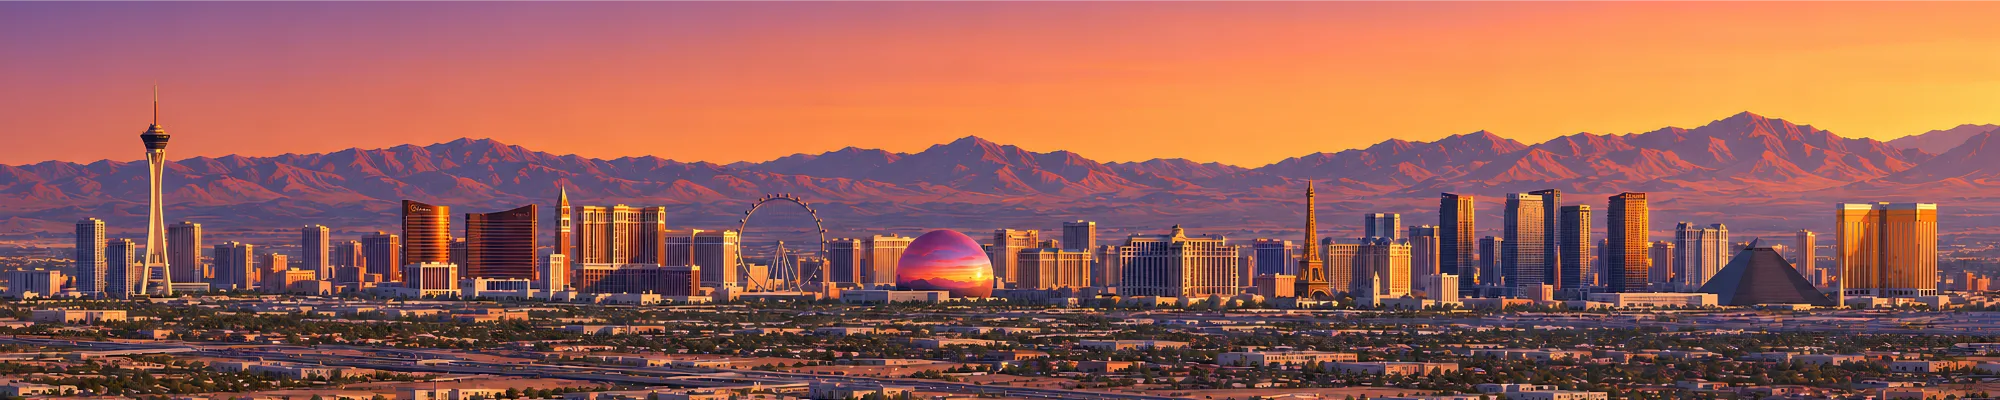
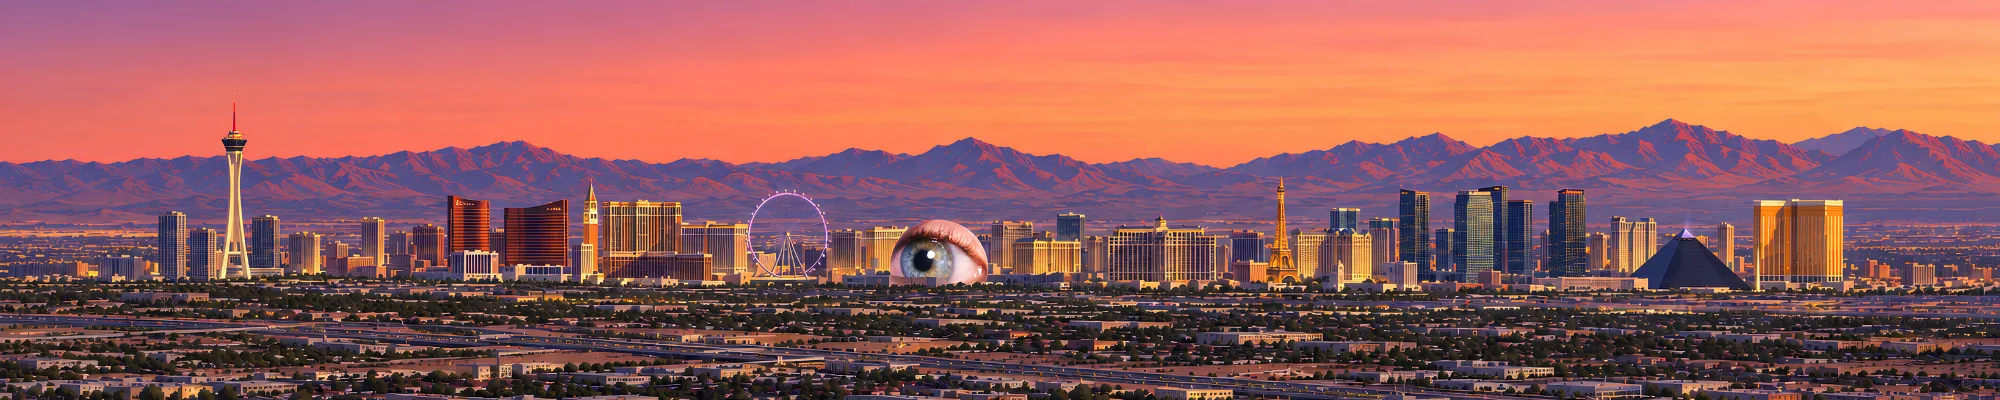
Rebuild Las Vegas on the third pack, and give the Sphere a face that looks around
The Owner redrew Las Vegas. Ten frames now (Cloudy and RainNight joined the
eight), one drawing on all ten (row-edge Pearson: lag 0 or 1px, r
0.967-0.987), so no shift and no override. Every coordinate re-measured.

The headline is the Sphere. The Owner deliberately left it blank in emoji
yellow on the Night frame and asked for a face whose eyes look around the
valley, so there is a new `emoji` kind: brows, two lavender eyes with dark
pupils, and a smile, all sized as percentages OF THE ORB'S DISC. A guard
asserts the emoji and the orb share x, y and d, because a face is drawn on a
landmark and if the two ever drift apart the features slide off the sphere
and land on the skyline, which nothing else would report.

Two things the frame dictated. The face lives in the TOP 67% of the disc:
the disc runs to card y 79 and the rooftops cut it at 71, and my first pass
(brows at 37%, mouth at 66%) looked right in the source and rendered with
the eyes clipped and no mouth at all. And it is NIGHT ONLY, because Night is
the only frame whose Sphere is that flat yellow: Golden Hour and Cloudy
Night paint it orange, Rain Night purple, the daylight frames blue. A face
on those reads as a decal on the wrong screen.

The pupils dart and then HOLD, on a 17-second loop, with a blink between the
darts. A pupil that slides continuously reads as a machine.

Everything else, re-measured on the new art:
- The High Roller is FITTED, not eyeballed: its topmost rim pixel is
[…]

diff --git a/src/lib/mastheadCityScenes.js b/src/lib/mastheadCityScenes.js
@@ -693,95 +693,129 @@ export const CITY_MOTION = {
     sceneShift: { cloudynight: 1.86, snownight: 1.27 },
   },
   lasvegas: {
-    // MASTHEAD-LASVEGAS-2 (2026-09-05): the second Las Vegas pack replaced
-    // the first, so EVERY coordinate here was re-measured (scratchpad
-    // nymeasure.mjs, lvbbox.mjs). One viewpoint on all eight frames: the
-    // valley from the south-east, the Strat at far left, the High Roller and
-    // the Sphere left of centre, Paris's tower right of it, the Luxor pyramid
-    // at right, mountains behind, the suburbs' arterial roads in front.
-    // measured before MASTHEAD-FULL-FRAME-1 and converted to the full frame with it: the Strat's tip is at
-    // source row 68. CloudyNight is the same drawing (landmarks and crowns
-    // within 3px), so it needs no shift and no override.
+    // MASTHEAD-LASVEGAS-3 (2026-09-07): the THIRD Las Vegas pack. Ten frames
+    // now (Cloudy and RainNight joined the eight), one drawing on all ten
+    // (row-edge Pearson: lag 0 or 1px, r 0.967-0.987), and every coordinate
+    // re-measured on these frames.
+    //
+    // The valley from the south-east: the Strat at x 11.7 (mast to card y 23,
+    // its red pod band at 28-31), the High Roller at x 39.35, the Sphere at
+    // x 46.9, Paris's tower at x 64, the Luxor pyramid at x 84.2 and the sky
+    // beam beside it at x 87.9, mountains behind, two arterial roads across
+    // the suburb in front.
     //
     // Night: the Strip's facades and crowns, then the suburb's lamps.
     lights: [
-      [65.5, 61.36], [65.3, 52.37], [80.5, 46.36], [70.8, 53.64], [65.6, 69.92],
-      [58.7, 54.15], [20.6, 48.14], [92.7, 58.14], [94.6, 68.14], [28.2, 47.12],
-      [10.6, 69.66], [95.9, 51.1], [24.2, 56.1], [26.6, 60.59], [21.3, 69.41],
-      [22.2, 60.59], [93.0, 49.41], [92.4, 67.88], [15.4, 64.66], [31.4, 48.14],
-      [26.5, 66.61], [59.4, 70.17], [2.3, 61.86], [97.5, 66.61], [23.6, 65.85],
-      [34.7, 64.41], [14.0, 69.92], [30.0, 63.39], [67.7, 60.17], [26.6, 55.34],
-      [26.2, 50.34], [17.0, 69.66], [52.5, 60.17], [30.1, 69.41], [84.1, 52.37],
+      [64.5, 66.3], [47.4, 70.3], [64.0, 46.3], [55.1, 71.5], [45.3, 67.8],
+      [44.8, 62.5], [47.4, 55.3], [9.3, 67.0], [64.0, 61.0], [91.0, 71.8],
+      [47.2, 61.8], [64.1, 53.3], [55.6, 57.5], [19.6, 71.3], [6.6, 61.5],
+      [92.0, 64.3], [20.5, 58.3], [69.0, 70.0], [52.3, 58.0], [32.7, 50.5],
+      [2.6, 71.0], [28.5, 69.5], [58.1, 55.3], [29.5, 51.2], [67.7, 58.0],
+      [79.3, 61.8], [94.8, 69.3], [9.3, 61.8], [13.2, 69.8], [92.0, 55.5],
+      [50.1, 55.3], [18.3, 64.3], [99.5, 67.0], [0.4, 69.5], [85.8, 63.2],
+      [12.3, 61.3], [69.9, 60.3], [17.6, 55.8], [23.6, 68.8], [4.8, 71.3],
       // The suburb's lamps, off the two road rails.
-      [21.8, 87.63], [33.0, 91.36], [69.3, 78.64], [55.8, 72.63], [41.6, 90.17],
-      [91.0, 91.61], [95.1, 78.39], [50.3, 87.63], [91.0, 73.64],
+      [50.8, 84.0], [99.2, 83.0], [21.0, 80.3], [10.0, 74.8], [37.2, 76.0],
+      [13.3, 78.3], [23.9, 83.8], [92.7, 72.8], [63.0, 75.8], [96.0, 87.5],
+      [84.5, 78.0], [74.3, 97.8], [69.2, 76.5], [47.6, 75.3], [37.0, 93.5],
+      [75.9, 83.3],
     ],
-    // The Strat's tip (rgb 232,100,58 at card y 11) and its pod's red band
-    // (244,34,61), the crown at x 28 (250,67,2), Paris's tip, the red crown
-    // at 81.2 (248,19,14) and the three tower crowns beside it.
+    // Aviation red. The Strat's pod band is the pair at x 11.7 - the "sky
+    // above" test FAILS on those two, correctly, because the mast continues
+    // above them, so they are taken from the column profile instead. The rest
+    // are strict-red maxima with open sky overhead: Paris's tip at x 64, the
+    // two crowns on the block at x 31-34, and the towers at 66 and 78.
     beacons: [
-      [7.7, 16.95], [7.7, 21.86], [28.0, 48.14], [65.5, 43.39], [81.2, 45.59],
-      [77.6, 44.15], [75.9, 45.34], [72.1, 44.92],
+      [11.7, 28.5], [11.7, 31.3], [64.0, 46.5], [33.7, 50.7], [31.3, 50.7],
+      [78.1, 47.8], [66.3, 56.8],
     ],
     beaconTone: 'red',
-    // Neon: the saturated magenta and cyan maxima of the Strip's signage
-    // (the third element picks the cyan glow; magenta is the default). The
-    // wheel's rim and the Sphere's skin are left to their own kinds.
+    // Neon: the saturated magenta and cyan maxima of the Strip's signage. The
+    // wheel's rim, the Sphere's skin and the beam are left to their own kinds.
     neon: [
-      [11.9, 58.14], [41.1, 56.86], [40.9, 63.9], [37.5, 66.1], [48.6, 71.1],
-      [64.0, 57.12], [62.9, 65.59], [73.6, 46.36], [78.1, 48.9], [80.3, 57.88],
-      [1.2, 64.66],
-      [86.9, 68.39, 'cyan'], [87.5, 61.86, 'cyan'], [72.2, 46.36, 'cyan'],
-      [91.5, 72.12, 'cyan'], [36.9, 57.37, 'cyan'], [73.6, 60.17, 'cyan'],
-      [54.2, 52.88, 'cyan'],
+      [9.6, 57.5], [63.1, 68.8], [78.6, 71.5], [5.0, 68.5], [40.6, 70.8],
+      [22.0, 62.7], [26.7, 68.5], [81.5, 72.0], [23.9, 53.3], [33.8, 72.8],
+      [39.4, 62.7], [61.6, 58.3], [38.5, 68.3],
+      [26.9, 57.3, 'cyan'], [73.9, 47.5, 'cyan'], [24.5, 58.5, 'cyan'],
+      [76.4, 68.0, 'cyan'], [84.0, 59.0, 'cyan'], [72.0, 57.3, 'cyan'],
+      [52.8, 53.8, 'cyan'], [67.0, 57.3, 'cyan'], [8.5, 68.5, 'cyan'],
     ],
-    // The High Roller: a ring 97 source px across (bounding box of its lit
-    // rim, card y 44.3-72.9), centred at x 39.0. Diameter as a share of the
-    // card WIDTH, since the ring is square in pixels and the card is not.
-    wheel: { x: 39.0, y: 57.29, d: 4.85 },
-    // The Sphere: 123 px across, top at card y 54.3, its lower half behind
-    // the Strip (the skyline cuts it at y 73.8, 54% of the way down).
-    orb: { x: 47.2, y: 68.98, d: 6.15, cut: 54 },
-    // The Luxor shaft, standing on the pyramid's apex: the brightest column
-    // at x 88 peaks white (254,255,253) at card y 57-58 and the frame already
-    // paints a faint beam above it.
-    beam: { x: 87.95, y: 56.36, height: 39.83, width: 2.4 },
-    // Two arterial roads across the suburb in front, traced light by light
-    // (+-1.3% band): both run level across the whole frame.
+    // The High Roller, fitted rather than eyeballed: the rim's topmost pixel is
+    // (39.35, 47.25) and its half-chord is 1.80 at y 54.75, which solves to a
+    // radius of 1.83% of the card WIDTH. Diameter is a share of the width
+    // because the ring is square in pixels and the card is not; the fit
+    // predicts the measured span within 0.2% at every row above the skyline.
+    wheel: { x: 39.35, y: 56.4, d: 3.66 },
+    // The Sphere: the largest solid-yellow component on the Night frame spans
+    // x 44.50-49.30 with its top at y 55.0, so it is 4.80% across, 24.0% tall,
+    // centred at y 67.0, and the skyline cuts it 67% of the way down.
+    orb: { x: 46.9, y: 67.0, d: 4.8, cut: 67 },
+    // MASTHEAD-SPHERE-FACE-1 (Owner): the Sphere is left blank in emoji yellow
+    // on the Night frame precisely so a face can be drawn on it, and the eyes
+    // look around the valley. Same disc as the orb above - it has to be, or
+    // the face slides off the sphere - and gated to Night alone, which is the
+    // only frame where the artwork's Sphere is that flat yellow (Golden Hour
+    // is orange, Cloudy Night orange, Rain Night purple, and the daylight
+    // frames paint it blue). The face sits in the TOP 67% of the disc because
+    // that is all the skyline leaves visible.
+    emoji: { x: 46.9, y: 67.0, d: 4.8 },
+    // The Luxor sky beam, standing on the pyramid's apex where it belongs
+    // (Owner). The frame paints a PURE WHITE LAMP there - x 84.25, y 57.5-59,
+    // rgb(255,255,255) against a sky at lum 33 - and no shaft above it: the
+    // sky column means over the apex are 36-42, flat. So the artwork gives the
+    // beam its source and leaves the shaft to us, which is exactly what this
+    // effect is for.
+    //
+    // I first put it at x 87.9, on the one column between x 80 and 96 that IS
+    // elevated (mean 56 against 46 either side). That column is real, but it
+    // rises from Mandalay Bay's roofline, not from the Luxor, and following it
+    // meant drawing the city's most recognisable landmark in the wrong place.
+    // Brightest is not the same as right.
+    beam: { x: 84.25, y: 57.5, height: 38.0, width: 2.4 },
+    // Two arterial roads across the suburb, traced light by light. The suburb
+    // is a carpet of lamps rather than a lit roadway, so the trace scatters:
+    // these are the lights within 1.4% of each fitted level, and none of the
+    // kept ones is more than 1.33% off the line the cars ride.
     bridge: [
       {
         lights: [
-          [3.5, 76.36], [7.0, 76.1], [10.0, 76.1], [13.0, 75.17], [16.5, 75.34],
-          [20.0, 75.85], [25.5, 76.61], [29.0, 75.85], [35.0, 74.66], [39.0, 74.66],
-          [43.5, 74.92], [46.5, 74.66], [53.5, 74.92], [56.5, 75.34], [60.5, 74.66],
-          [64.5, 75.34], [69.0, 74.92], [73.0, 74.66], [77.5, 75.34], [81.5, 74.41],
-          [86.0, 74.66], [89.5, 74.92], [92.0, 75.17], [97.0, 74.41],
+          [3.0, 77.0], [10.0, 74.8], [13.5, 74.8], [18.0, 76.8], [30.0, 75.0],
+          [32.0, 75.5], [34.0, 75.3], [41.5, 76.0], [43.0, 77.0], [45.5, 75.8],
+          [47.5, 75.3], [51.0, 76.5], [60.5, 77.0], [63.0, 75.8], [65.0, 76.3],
+          [69.0, 76.8], [73.5, 75.3], [75.5, 75.0], [77.5, 75.5], [80.0, 77.0],
+          [81.5, 75.8], [85.0, 74.5], [88.5, 76.5], [95.0, 75.3], [98.0, 76.5],
         ],
-        deck: { x: 1, y: 75.17, w: 98, rise: 0.0 },
+        deck: { x: 1, y: 75.83, w: 98, rise: 0.0 },
+        police: true,
       },
       {
         lights: [
-          [2.5, 85.17], [8.0, 83.14], [12.0, 83.39], [16.5, 84.41], [21.0, 83.39],
-          [26.0, 83.14], [31.5, 83.64], [37.0, 84.66], [40.5, 84.41], [44.0, 84.41],
-          [50.0, 84.41], [53.5, 83.64], [58.0, 83.39], [61.5, 84.66], [65.5, 83.39],
-          [70.0, 83.9], [73.5, 83.14], [79.5, 85.34], [84.5, 83.9], [88.5, 83.9],
-          [93.5, 84.92], [97.0, 83.9],
+          [3.5, 83.5], [6.5, 83.0], [11.0, 83.0], [17.5, 84.8], [20.0, 83.0],
+          [21.5, 83.0], [24.0, 83.8], [27.5, 84.0], [32.0, 83.3], [33.5, 84.5],
+          [35.0, 84.5], [36.5, 84.8], [40.5, 82.8], [45.0, 84.3], [51.0, 83.8],
+          [53.0, 85.0], [56.0, 83.8], [59.5, 84.3], [64.0, 84.8], [66.0, 83.5],
+          [73.5, 84.5], [76.0, 83.3], [79.5, 82.8], [82.5, 82.8], [85.5, 83.8],
+          [89.0, 84.3], [90.5, 83.8], [92.0, 83.8], [94.5, 83.3], [97.5, 83.5],
         ],
-        deck: { x: 1, y: 84.15, w: 98, rise: 0.0 },
+        deck: { x: 1, y: 83.87, w: 98, rise: 0.0 },
       },
     ],
-    // The ridge tops out at card y 30%; the Strat reaches 11% at x 7.7, so
-    // the crossings keep to the east of it.
-    aircraft: { y: 21.19, from: 98, to: 44, flight: 40 },
-    birds: { y: 26.27, from: 98, to: 44, flight: 34, count: 6 },
-    helicopter: { y: 27.97, from: 44, to: 98, flight: 46 },
+    // The ridge tops out at card y 30.8 and the Strat's mast reaches 23, so
+    // the crossings run east of it and above the range.
+    aircraft: { y: 12, from: 98, to: 22, flight: 40 },
+    // The flock spreads 6.4% above its lane and 11.5% below, so a lane at 16
+    // spans y 9.6-27.5 and clears the ridge everywhere along its run.
+    birds: { y: 16, from: 96, to: 26, flight: 34, count: 6 },
+    helicopter: { y: 24, from: 26, to: 96, flight: 46 },
     // Morning haze on the valley floor behind the Strip (the far lights band
-    // at y 45-58), white rather than the basin's smog; the towers stand out.
-    haze: { y: 44.92, height: 11.86 },
+    // at y 44-56), white rather than a basin smog; the towers stand out of it.
+    haze: { y: 44, height: 12 },
     hazeTone: 'fog',
-    // The golden-hour sun is OFF-FRAME LEFT (left edge brightest at card y
-    // 15%; sky column means fall from 225 at left to 207 at right).
-    flare: { x: -6, y: 20.34 },
+    // THE SUN CHANGED SIDES with this pack. It is off-frame RIGHT now: the
+    // brightest edge pixel on Golden Hour is the right edge, and the sky
+    // column means rise monotonically from 193 at x 0 to 221 at x 90. The
+    // second pack's art was lit from the left.
+    flare: { x: 106, y: 7 },
     rainfall: true,
   },
   hongkong: {

diff --git a/src/index.css b/src/index.css
@@ -2721,6 +2721,81 @@ a.doc-file-link:hover { text-decoration: underline; }
   filter: blur(3px) hue-rotate(0deg);
 }
 @keyframes mast-orb { from { filter: blur(3px) hue-rotate(0deg); } to { filter: blur(3px) hue-rotate(360deg); } }
+/* ── MASTHEAD-SPHERE-FACE-1 (2026-09-07, Owner): a face on the Sphere ──
+   The Sphere is a screen, so it is the one landmark in this registry that can
+   honestly wear an expression, and the Owner left it blank in emoji yellow on
+   the Night frame for exactly this. Everything is a percentage of the disc
+   (`width` comes from the registry, `aspect-ratio: 1` makes it round in
+   pixels), so the face scales with the card and cannot slide off the sphere.
+   THE FEATURES LIVE IN THE TOP 67% OF THE DISC, because that is all the
+   skyline in front of it leaves visible - the disc runs to card y 79 and the
+   rooftops cut it at 71. The first pass put the brows at 37% and the mouth at
+   66%, which looked right in the source and rendered with the eyes clipped at
+   the bottom edge and no mouth at all. Brows 22-27%, eyes 30-54%, mouth
+   55-64%: the whole face now sits above the cut with room to spare.
+   NIGHT ONLY. It is the only frame whose Sphere is that flat yellow: Golden
+   Hour and Cloudy Night paint it orange, Rain Night purple, and the daylight
+   frames blue. A face drawn on those reads as a decal on the wrong screen. */
+.mast-motion-emoji {
+  position: absolute; aspect-ratio: 1; opacity: 0;
+  transform: translate(-50%, -50%); pointer-events: none;
+}
+.mast-motion-emoji > * { position: absolute; }
+/* Brows: short bars with a slight inward tilt, the way the reference draws
+   them. They sit above the eyes and do not move - the eyes carry the life. */
+.mast-motion-emoji-brow {
+  top: 22%; width: 23%; height: 5%;
+  background: #241c10; border-radius: 50%;
+}
+.mast-motion-emoji-brow-l { left: 21%; rotate: -4deg; }
+.mast-motion-emoji-brow-r { left: 56%; rotate: 4deg; }
+/* Eyes: a pale lavender oval, taller than it is wide, holding a dark pupil.
+   `overflow: hidden` keeps the pupil inside the eye at the ends of its travel
+   so it never rides out onto the yellow. */
+.mast-motion-emoji-eye {
+  top: 30%; width: 19%; height: 24%;
+  background: #efe6f7; border-radius: 50%;
+  overflow: hidden;
+}
+.mast-motion-emoji-eye-l { left: 23%; }
+.mast-motion-emoji-eye-r { left: 58%; }
+.mast-motion-emoji-pupil {
+  position: absolute; left: 19%; top: 19%; width: 62%; height: 62%;
+  background: #17130c; border-radius: 50%;
+}
+/* The smile: the bottom half of a rounded box, so the curve is a real arc
+   rather than a rotated dash. */
+.mast-motion-emoji-mouth {
+  left: 39%; top: 55%; width: 22%; height: 9%;
+  border-bottom: 2px solid #241c10;   /* px, not em: em would inherit whatever font-size the card carries */
+  border-radius: 0 0 50% 50%;
+}
+/* A pupil that slides continuously reads as a machine. This darts and then
+   HOLDS - the pauses are what make it read as looking around Las Vegas rather
+   than sweeping. Percentages on translate resolve against the pupil's own
+   box, and the pupil is 62% of the eye, so +-48% keeps it inside. */
+@keyframes mast-emoji-look {
+  0%, 10%    { translate: 0 0; }
+  16%, 27%   { translate: -46% -12%; }
+  33%, 45%   { translate: 44% -10%; }
+  51%, 58%   { translate: 10% 30%; }
+  64%, 76%   { translate: -34% 20%; }
+  82%, 93%   { translate: 28% -26%; }
+  100%       { translate: 0 0; }
+}
+/* The blink is on the EYE, not the pupil, and lands between the darts. */
+@keyframes mast-emoji-blink {
+  0%, 41%, 45%, 88%, 92%, 100% { transform: scaleY(1); }
+  43%, 90%                     { transform: scaleY(0.08); }
+}
+.mast-scenic.mast-scene-night .mast-motion-emoji { opacity: 1; }
+.mast-scenic.mast-scene-night .mast-motion-emoji-pupil {
+  animation: mast-emoji-look 17s ease-in-out infinite;
+}
+.mast-scenic.mast-scene-night .mast-motion-emoji-eye {
+  animation: mast-emoji-blink 17s ease-in-out infinite;
+}
+
 .mast-scenic.mast-scene-night .mast-motion-orb,
 .mast-scenic.mast-scene-snownight .mast-motion-orb,
 .mast-scenic.mast-scene-cloudynight .mast-motion-orb,
@@ -2973,7 +3048,8 @@ a.doc-file-link:hover { text-decoration: underline; }
   .mast-motion-ghost, .mast-motion-ferry, .mast-motion-ferry-hull, .mast-motion-ferry-wake,
   .mast-motion-ferry-lamp, .mast-motion-glint, .mast-motion-steam, .mast-motion-anchored,
   .mast-motion-neon, .mast-motion-wheel, .mast-motion-orb, .mast-motion-snow, .mast-motion-flake,
-  .mast-motion-swell, .mast-motion-surf, .mast-motion-rainbow, .mast-motion-cabin {
+  .mast-motion-swell, .mast-motion-surf, .mast-motion-rainbow, .mast-motion-cabin,
+  .mast-motion-emoji {
     animation: none !important; opacity: 0 !important;
   }
 }

diff --git a/src/components/masthead/MastheadMotion.jsx b/src/components/masthead/MastheadMotion.jsx
@@ -50,6 +50,21 @@ const CARS = [
   { dir: 'east', dur: 11, delay: 3 },
   { dir: 'east', dur: 17, delay: 8 },
 ]
+// MASTHEAD-CAR-PACE-1 (2026-09-07, Owner: the Vegas traffic moved "at a speed
+// of light"). A car animates `left` from one end of ITS SPAN to the other, so
+// a fixed duration means the car's real speed is set by how wide that span is
+// - and spans run from Los Angeles's 5% ramp to Las Vegas's 98% arterial. At
+// one period for all of them Vegas's cars crossed the card NINETEEN TIMES
+// faster than LA's (10.9 vs 0.56 percent of the card per second).
+//
+// The period now grows with the span. Not linearly: constant speed is the
+// physically honest answer, but it would flick a car across LA's 5% ramp in
+// two seconds and leave that road empty most of the time. The square root is
+// the compromise - it leaves the short ramps exactly as they were tuned and
+// pulls the long arterials down to something a distant freeway looks like.
+// Las Vegas goes from 9s to 40s for a full crossing; nothing gets faster.
+const CAR_REF_SPAN = 5
+const carPace = w => Math.sqrt(Math.max(w, CAR_REF_SPAN) / CAR_REF_SPAN)
 
 // A flock is a loose V. Offsets are percentages OF THE FLOCK BOX (a small
 // sized span, see .mast-motion-flock), not of the card: a percentage inside a
@@ -151,7 +166,7 @@ export default function MastheadMotion({ city }) {
   if (!m) return null
   const { lights, beacons, beaconTone, aircraft, water, bridge, beam,
     birds, haze, hazeTone, flare, helicopter, rainfall, ferry, ferryTone, glints, steam,
-    neon, wheel, orb, snowfall, swell, surf, rainbow, cable, sceneOverrides, sceneShift } = m
+    neon, wheel, orb, emoji, snowfall, swell, surf, rainbow, cable, sceneOverrides, sceneShift } = m
   const spans = Array.isArray(bridge) ? bridge : bridge ? [bridge] : []
   // MASTHEAD-SCENE-SHIFT: everything measured against the frame (points, decks,
   // beam, steam) sits in one anchored box, and a scene whose frame is the same
@@ -296,6 +311,29 @@ export default function MastheadMotion({ city }) {
           style={{ left: `${orb.x}%`, top: `${orb.y}%`, width: `${orb.d}%`, '--cut': `${orb.cut}%` }} />
       )}
 
+      {/* MASTHEAD-SPHERE-FACE-1: the Sphere is a SCREEN, so the one landmark on
+          any of these cards that can honestly be given an expression. The
+          Owner left it blank in emoji yellow for exactly this. Geometry is the
+          orb's disc, and every feature is a percentage OF THAT DISC, so the
+          face cannot drift off the sphere when the card resizes. The eyes
+          wander on a long loop with real pauses - a pupil that slides
+          continuously reads as a machine, one that darts and then holds reads
+          as something looking around. */}
+      {emoji && (
+        <span className="mast-motion-emoji"
+          style={{ left: `${emoji.x}%`, top: `${emoji.y}%`, width: `${emoji.d}%` }}>
+          <span className="mast-motion-emoji-brow mast-motion-emoji-brow-l" />
+          <span className="mast-motion-emoji-brow mast-motion-emoji-brow-r" />
+          <span className="mast-motion-emoji-eye mast-motion-emoji-eye-l">
+            <span className="mast-motion-emoji-pupil" />
+          </span>
+          <span className="mast-motion-emoji-eye mast-motion-emoji-eye-r">
+            <span className="mast-motion-emoji-pupil" />
+          </span>
+          <span className="mast-motion-emoji-mouth" />
+        </span>
+      )}
+
       {/* Steam off a rooftop: three puffs per stack, a third of a cycle apart
           so the plume never empties, each rising, spreading and thinning from
           the measured roof edge. */}
@@ -367,12 +405,15 @@ export default function MastheadMotion({ city }) {
             {CARS.map(c => (
               <span key={`${c.dir}-${c.dur}`}
                 className={`mast-motion-car mast-motion-car-${c.dir}`}
-                style={{ '--dur': `${c.dur + si * 1.7}s`, '--dl': `${c.delay + si * 2.3}s` }} />
+                style={{
+                  '--dur': `${(c.dur * carPace(span.deck.w) + si * 1.7).toFixed(1)}s`,
+                  '--dl': `${c.delay + si * 2.3}s`,
+                }} />
             ))}
             {/* One police car on a long period, so it is an event, not traffic. */}
             {span.police && (
               <span className="mast-motion-car mast-motion-car-west mast-motion-car-police"
-                style={{ '--dur': '23s', '--dl': '11s' }} />
+                style={{ '--dur': `${(23 * carPace(span.deck.w)).toFixed(1)}s`, '--dl': '11s' }} />
             )}
           </span>
         </span>
